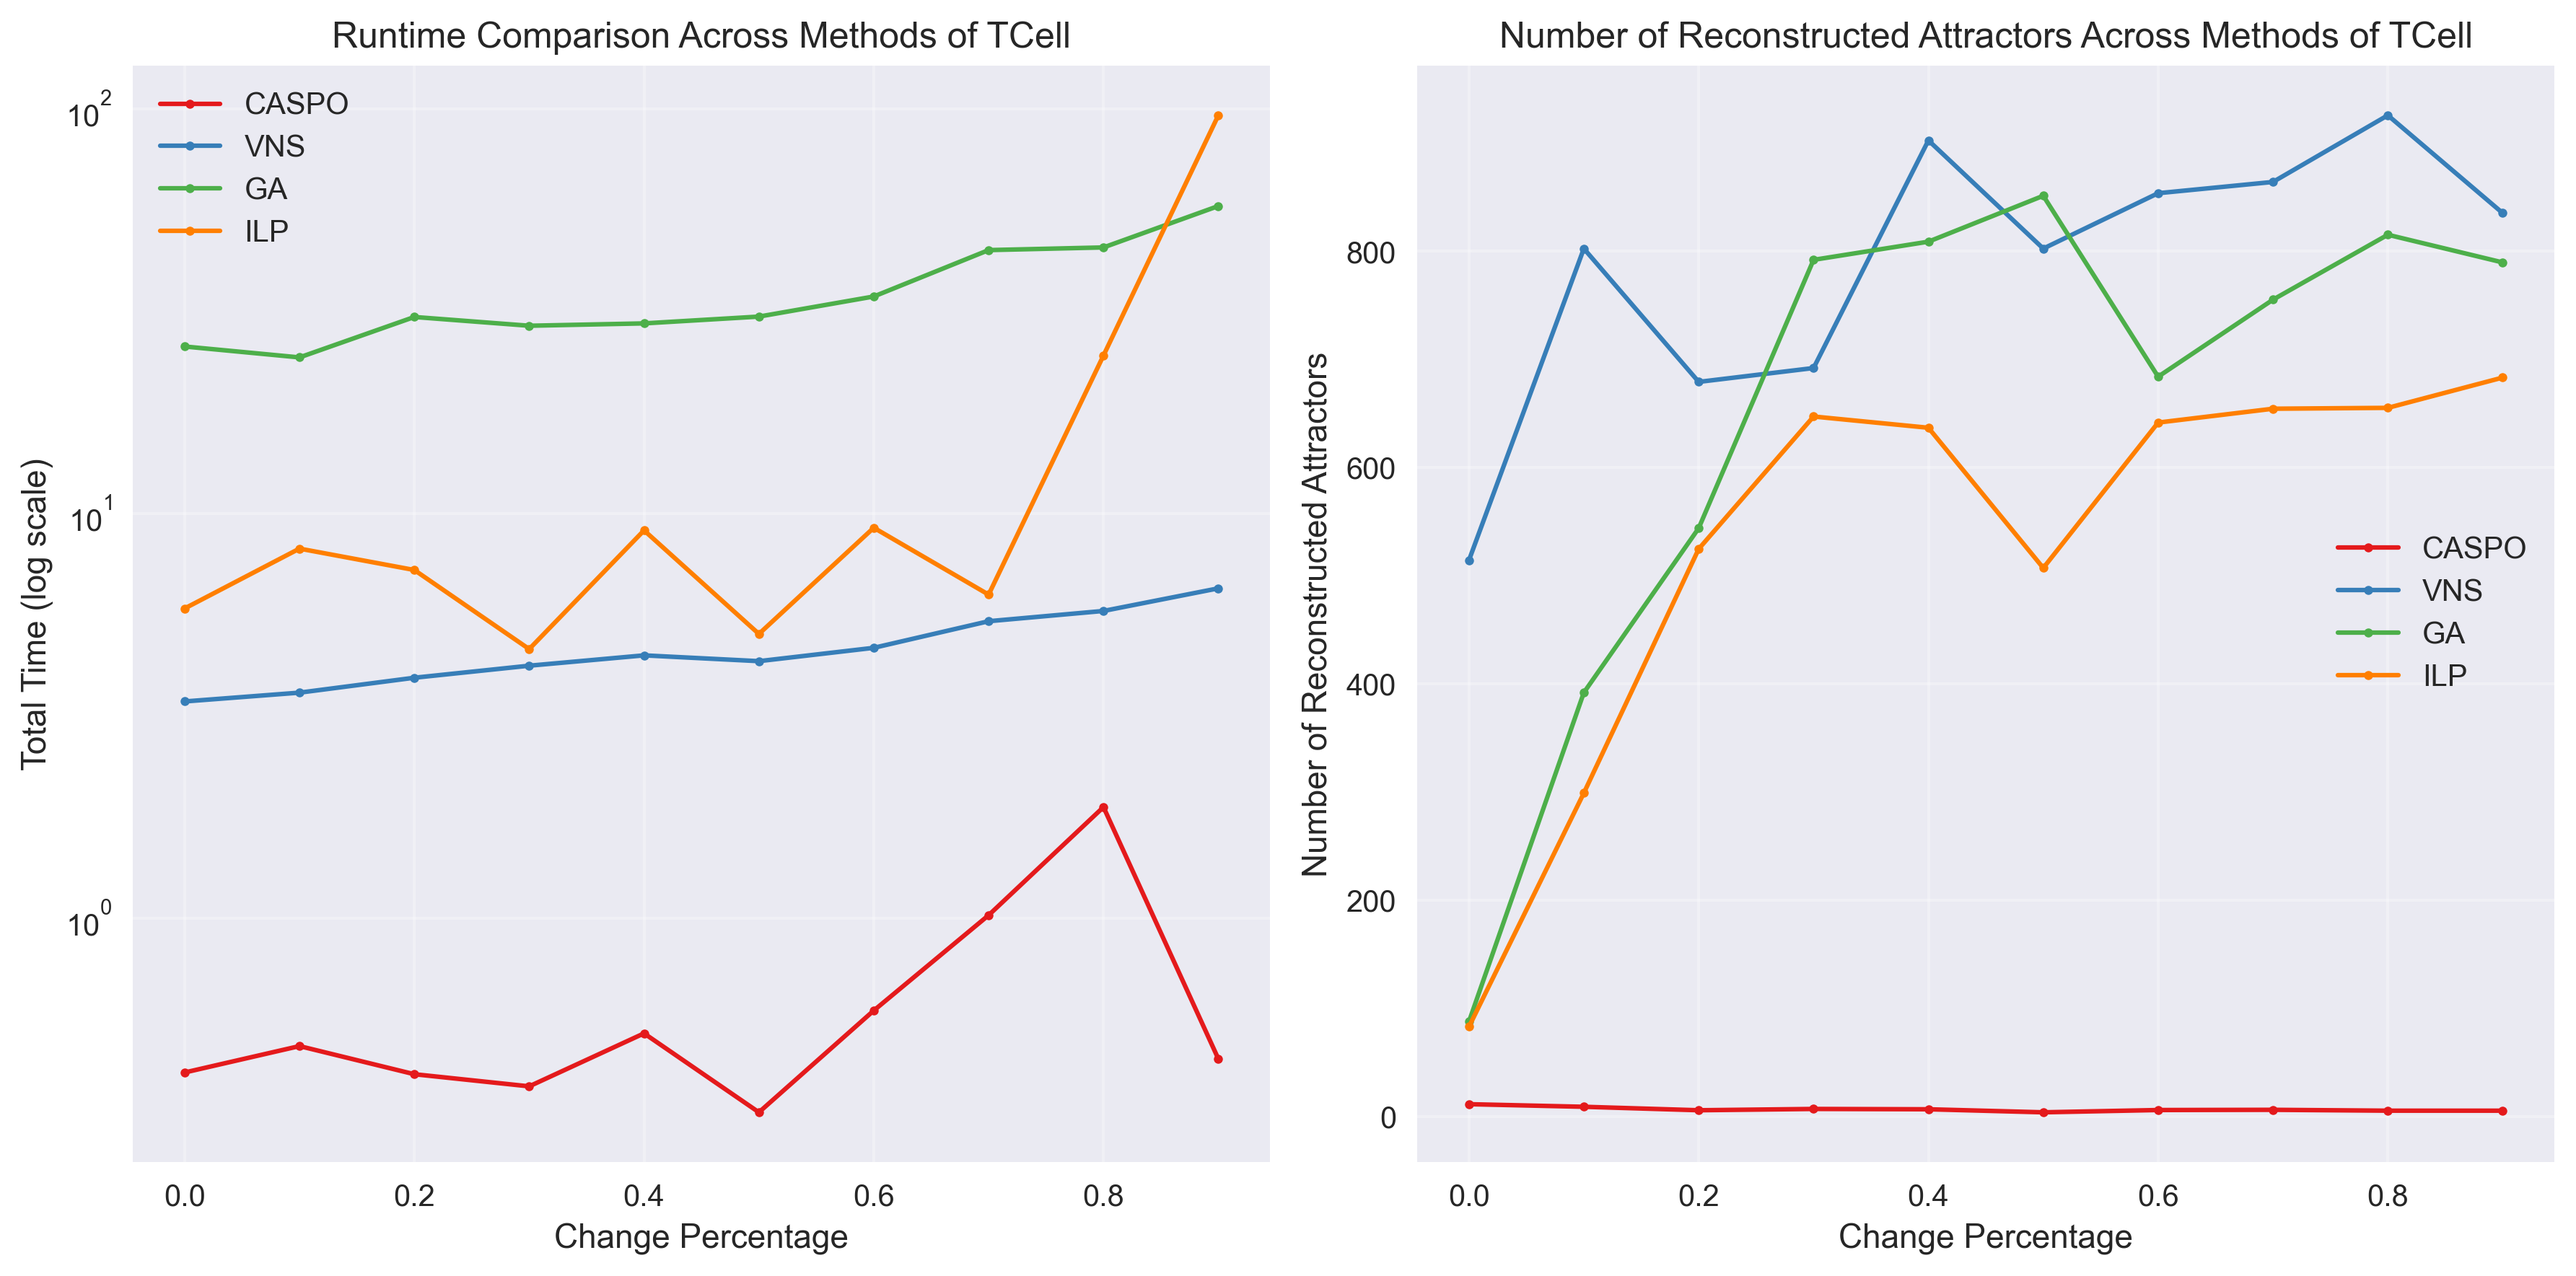
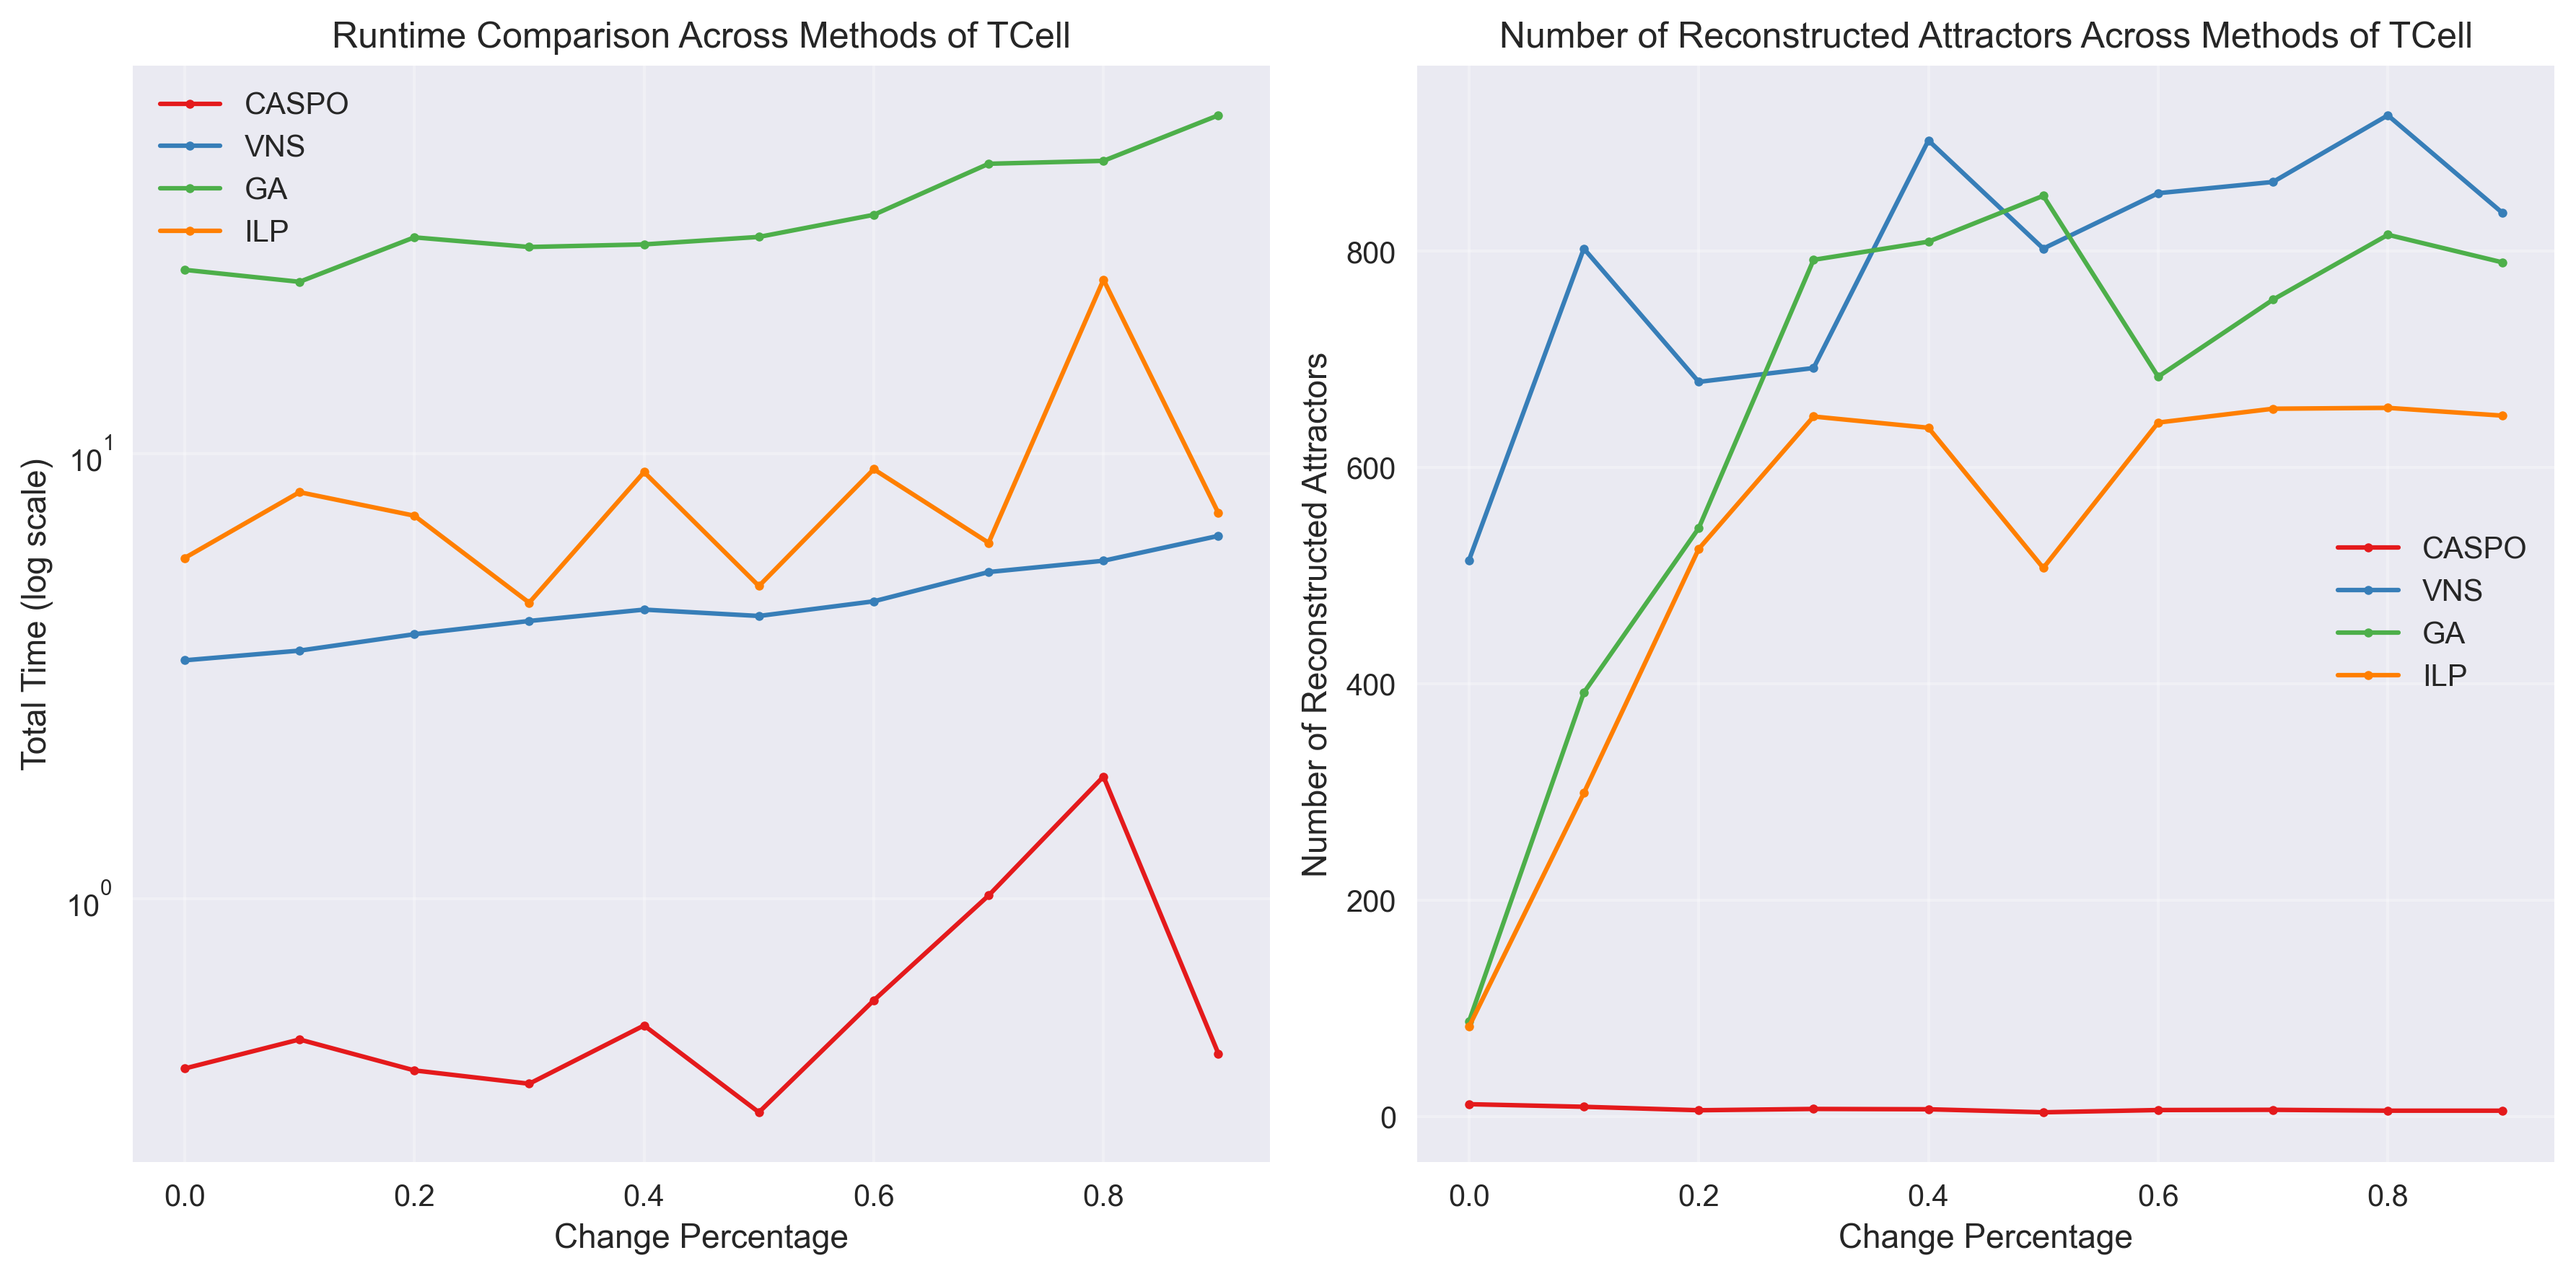
Latest result

diff --git a/Step_04_Plot.py b/Step_04_Plot.py
@@ -89,6 +89,7 @@ def create_comparison_plots(df, dataset_name='toy'):
     # Left: runtime (log scale)
     for method in methods:
         method_data = df[df['method'] == method]
+        method_data = method_data[method_data['total_time'] < 500]
         ax_time.plot(
             method_data['change_percent'], method_data['total_time'],
             marker='o', linewidth=1.5, markersize=3, label=method, color=method_colors[method]
@@ -206,6 +207,7 @@ def load_and_plot_results(dataset_name='toy'):
     ]
 
     group_columns = ['method', 'change_percent']
+    full_df = full_df[full_df['total_time'] < 500]
 
     df = full_df.groupby(group_columns, dropna=False)[avg_columns].mean().reset_index()
     
@@ -235,7 +237,7 @@ def load_and_plot_results(dataset_name='toy'):
         combined_df = pd.concat([df, toy_df], ignore_index=True)       
         
         dream_df = load_results(f"output/comparison_dream_*.csv")
-        dream_df = dream_df[dream_df['total_time'] < 1000]
+        dream_df = dream_df[dream_df['total_time'] < 500]
         dream_df = dream_df.groupby(group_columns, dropna=False)[avg_columns].mean().reset_index()
         dream_df['dataset'] = "DREAM"        
         combined_df = pd.concat([combined_df, dream_df], ignore_index=True)
